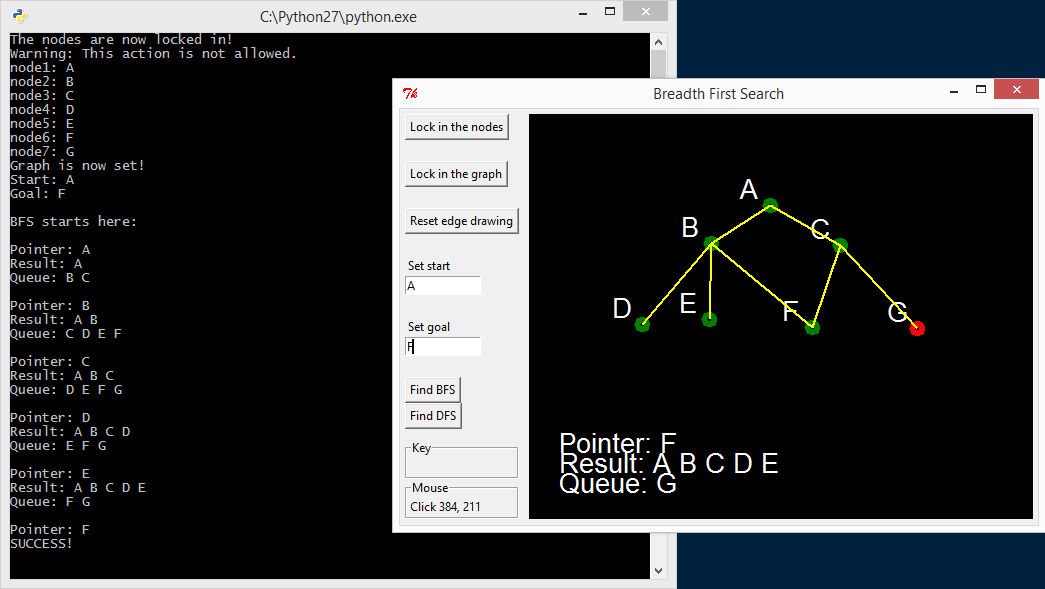
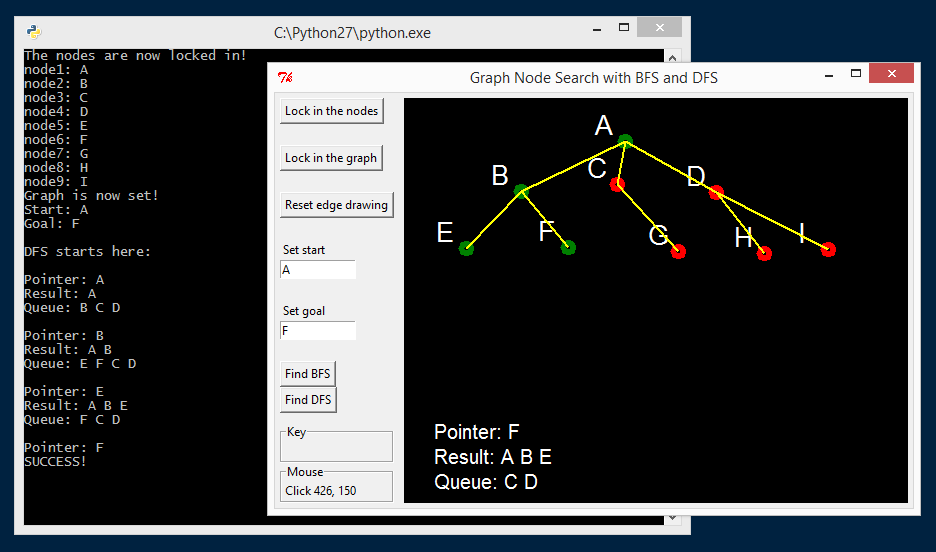
adjust result whitespaces and title wordings

diff --git a/source/BFS_DFS_GUI.py b/source/BFS_DFS_GUI.py
@@ -468,13 +468,13 @@ def draw_handler(canvas):
 
     # Display results
     if displayResult == True:
-        canvas.draw_text(pointer_string, (30, 345), 20, NODE_LABEL_COLOR)
-        canvas.draw_text(result_string, (30, 370), 20, NODE_LABEL_COLOR)
-        canvas.draw_text(queue_string, (30, 390), 20, NODE_LABEL_COLOR)
+        canvas.draw_text(pointer_string, (30, 345), 15, NODE_LABEL_COLOR)
+        canvas.draw_text(result_string, (30, 370), 15, NODE_LABEL_COLOR)
+        canvas.draw_text(queue_string, (30, 395), 15, NODE_LABEL_COLOR)
 
 
 # Creates the frame window
-frame = simplegui.create_frame("Breadth First Search",WIDTH,HEIGHT)
+frame = simplegui.create_frame("Graph Node Search with BFS and DFS",WIDTH,HEIGHT)
 
 frame.set_mouseclick_handler(mouseclick)
 frame.set_draw_handler(draw_handler)
